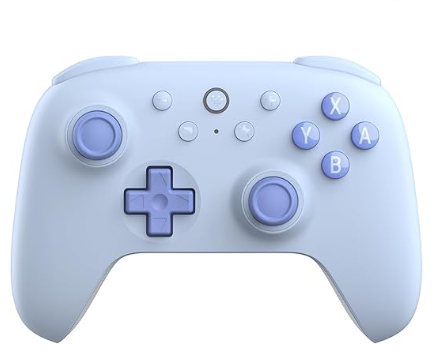
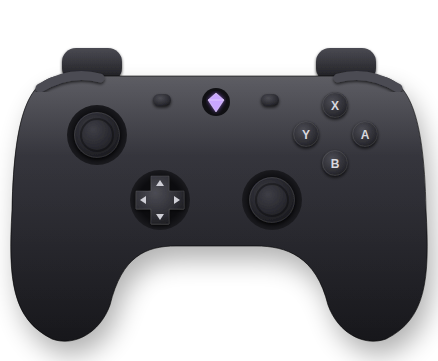
Controls screen: Riftgate's own controller drawings replace the product photos
Claude-Session: https://claude.ai/code/session_01AJu1MLLCcy1A8b8mvqWLVx

diff --git a/src/app/gamepad.js b/src/app/gamepad.js
@@ -478,8 +478,9 @@ function diagram(kind) {
 }
 
 
-// ---- The controller layout: the real controller, every button labelled ---------------------
-// Positions are pixels on the photo (assets/controllers/*.png). Each label
+// ---- The controller layout: the controller drawn, every button labelled -------------------
+// Positions are pixels on the renders (assets/controllers/*.png, all drawn for
+// Riftgate by assets/controllers/src; no real product is shown). Each label
 // sits in a column beside the controller, joined to its button by a line.
 const PHOTOS = {
     xbox: { src: "assets/controllers/xbox.png", w: 428, h: 385,

diff --git a/assets/controllers/src/gamepad.py b/assets/controllers/src/gamepad.py
@@ -1,0 +1,92 @@
+# Riftgate's own gamepad renders (no real product is shown): one generic
+# controller, drawn so each button sits exactly where the controls screen
+# expects it (PHOTOS[...].at in src/app/gamepad.js). Product-shot style,
+# matching remote.py: straight down, soft studio light, shadow on white.
+import sys
+LAYOUTS = {
+    "xbox": dict(W=428, H=385, at={"LT": [118, 30], "LB": [92, 50], "VIEW": [183, 107], "LS": [105, 105], "DPAD": [160, 175], "RT": [312, 30], "RB": [338, 50], "MENU": [245, 107], "Y": [325, 78], "X": [293, 107], "B": [350, 107], "A": [322, 134], "RS": [270, 170]},
+                 face={"A": ("A", "#3ab14a"), "B": ("B", "#e3342f"), "X": ("X", "#2f78d6"), "Y": ("Y", "#f2b705")}),
+    "playstation": dict(W=495, H=493, at={"LT": [95, 92], "LB": [100, 110], "VIEW": [132, 126], "LS": [170, 247], "DPAD": [95, 182], "RT": [398, 92], "RB": [395, 110], "MENU": [361, 126], "Y": [398, 146], "X": [370, 182], "B": [433, 182], "A": [398, 216], "RS": [325, 247]},
+                 face={"A": ("✕", "#7b9cf2"), "B": ("○", "#ef6b75"), "X": ("□", "#e58bd8"), "Y": ("△", "#3fc9a8")}),
+    "nintendo": dict(W=438, H=361, at={"LT": [92, 62], "LB": [70, 80], "VIEW": [162, 100], "LS": [97, 135], "DPAD": [160, 200], "RT": [346, 62], "RB": [368, 80], "MENU": [270, 100], "Y": [335, 105], "X": [306, 134], "B": [365, 134], "A": [335, 163], "RS": [272, 200]},
+                 face={"A": ("B", "#d8d8de"), "B": ("A", "#d8d8de"), "X": ("Y", "#d8d8de"), "Y": ("X", "#d8d8de")}),
+}
+
+def render(kind):
+    L = LAYOUTS[kind]; W, H, at = L["W"], L["H"], L["at"]
+    cx = (at["VIEW"][0] + at["MENU"][0]) / 2
+    xs = [p[0] for k, p in at.items()]
+    left = min(at["LB"][0], at["LS"][0], at["DPAD"][0]) - 52
+    right = max(at["RB"][0], at["B"][0], at["RS"][0]) + 52
+    top = min(at["LB"][1], at["RB"][1]) - 4
+    mid = max(at["LS"][1], at["RS"][1], at["DPAD"][1]) + 40
+    gb = min(H - 22, mid + 120)               # grip bottoms
+    o = []; A = o.append
+    A(f'<svg xmlns="http://www.w3.org/2000/svg" viewBox="0 0 {W} {H}" width="{W}" height="{H}">')
+    A('''<defs>
+<linearGradient id="body" x1="0" y1="0" x2="0" y2="1"><stop offset="0" stop-color="#3a3a42"/><stop offset=".45" stop-color="#2a2a31"/><stop offset="1" stop-color="#17171b"/></linearGradient>
+<linearGradient id="sheen" x1="0" y1="0" x2="0" y2="1"><stop offset="0" stop-color="#fff" stop-opacity=".18"/><stop offset=".3" stop-color="#fff" stop-opacity=".03"/><stop offset="1" stop-color="#fff" stop-opacity="0"/></linearGradient>
+<linearGradient id="trig" x1="0" y1="0" x2="0" y2="1"><stop offset="0" stop-color="#4a4a52"/><stop offset="1" stop-color="#1c1c20"/></linearGradient>
+<radialGradient id="btn" cx=".4" cy=".35" r=".75"><stop offset="0" stop-color="#4c4c54"/><stop offset=".7" stop-color="#2b2b31"/><stop offset="1" stop-color="#18181b"/></radialGradient>
+<radialGradient id="cap" cx=".42" cy=".38" r=".7"><stop offset="0" stop-color="#3e3e46"/><stop offset=".8" stop-color="#1f1f24"/><stop offset="1" stop-color="#121215"/></radialGradient>
+<radialGradient id="well" cx=".5" cy=".5" r=".5"><stop offset=".7" stop-color="#0c0c0f"/><stop offset="1" stop-color="#1a1a1e"/></radialGradient>
+<filter id="shadow" x="-50%" y="-50%" width="200%" height="200%"><feGaussianBlur stdDeviation="13"/></filter>
+<filter id="press" x="-30%" y="-30%" width="160%" height="160%"><feDropShadow dx="0" dy="1.6" stdDeviation="1.4" flood-color="#000" flood-opacity=".7"/></filter>
+<filter id="glow"><feGaussianBlur stdDeviation="2"/></filter>
+</defs>''')
+    A(f'<rect width="{W}" height="{H}" fill="#fff"/>')
+    # triggers peek out above the shoulders
+    for k in ("LT", "RT"):
+        x, y = at[k]
+        A(f'<rect x="{x-30}" y="{y-14}" width="60" height="34" rx="14" fill="url(#trig)" filter="url(#press)"/>')
+    # body: shoulders across the top, a grip on each side
+    gl, gr = left + 8, right - 8
+    d = (f"M{left+46},{top} L{right-46},{top} C{right-14},{top} {right+4},{top+30} {right+6},{mid-30} "
+         f"C{right+10},{mid+40} {right+6},{gb-20} {gr-26},{gb} C{gr-48},{gb+8} {gr-74},{gb-6} {gr-84},{gb-34} "
+         f"C{gr-96},{mid+16} {cx+70},{mid+6} {cx+40},{mid+6} L{cx-40},{mid+6} C{cx-70},{mid+6} {gl+96},{mid+16} {gl+84},{gb-34} "
+         f"C{gl+74},{gb-6} {gl+48},{gb+8} {gl+26},{gb} C{left-6},{gb-20} {left-10},{mid+40} {left-6},{mid-30} "
+         f"C{left-4},{top+30} {left+14},{top} {left+46},{top} Z")
+    A(f'<path d="{d}" fill="#000" opacity=".3" filter="url(#shadow)" transform="translate(6,14)"/>')
+    A(f'<path d="{d}" fill="url(#body)"/>')
+    A(f'<path d="{d}" fill="url(#sheen)"/>')
+    A(f'<path d="{d}" fill="none" stroke="#000" stroke-opacity=".6"/>')
+    # bumpers along the shoulder edge
+    for k, s in (("LB", 1), ("RB", -1)):
+        x, y = at[k]
+        A(f'<path d="M{x-30*s},{y+8} Q{x},{y-10} {x+30*s},{y-2}" fill="none" stroke="#4b4b53" stroke-width="9" stroke-linecap="round" filter="url(#press)"/>')
+    def btn(x, y, r, fill="url(#btn)"):
+        A(f'<circle cx="{x}" cy="{y}" r="{r}" fill="{fill}" filter="url(#press)"/>')
+        A(f'<circle cx="{x}" cy="{y}" r="{r-.6}" fill="none" stroke="#fff" stroke-opacity=".1"/>')
+    def txt(x, y, s, size, fill="#e6e6ea", w=700):
+        A(f'<text x="{x}" y="{y}" font-family="Segoe UI Symbol, Segoe UI, Helvetica, Arial, sans-serif" font-size="{size}" font-weight="{w}" fill="{fill}" text-anchor="middle" dominant-baseline="central">{s}</text>')
+    # sticks
+    for k in ("LS", "RS"):
+        x, y = at[k]
+        A(f'<circle cx="{x}" cy="{y}" r="30" fill="url(#well)"/>')
+        btn(x, y, 23, "url(#cap)")
+        A(f'<circle cx="{x}" cy="{y}" r="16" fill="none" stroke="#000" stroke-opacity=".35" stroke-width="2"/>')
+    # d-pad
+    x, y = at["DPAD"]
+    A(f'<circle cx="{x}" cy="{y}" r="30" fill="url(#well)"/>')
+    A(f'<path d="M{x-9},{y-24} h18 v15 h15 v18 h-15 v15 h-18 v-15 h-15 v-18 h15 z" fill="url(#btn)" filter="url(#press)" stroke="#fff" stroke-opacity=".08"/>')
+    for ang in (0, 90, 180, 270):
+        A(f'<path d="M0 -4 L4 2 L-4 2 Z" fill="#cfcfd6" transform="translate({x},{y}) rotate({ang}) translate(0,-16)"/>')
+    # face buttons
+    for k in ("Y", "X", "B", "A"):
+        x, y = at[k]; label, colour = L["face"][k]
+        btn(x, y, 13)
+        txt(x, y + .5, label, 12 if len(label) == 1 and label.isalpha() else 13, fill=colour)
+    # view / menu
+    for k in ("VIEW", "MENU"):
+        x, y = at[k]
+        A(f'<rect x="{x-9}" y="{y-6}" width="18" height="12" rx="6" fill="url(#btn)" filter="url(#press)"/>')
+    # Riftgate's gem as the home button
+    gy = max(top + 26, min(at["VIEW"][1], at["MENU"][1]) - 30)
+    A(f'<circle cx="{cx}" cy="{gy}" r="14" fill="#101013"/>')
+    A(f'<path d="M{cx},{gy-9} L{cx+8},{gy-2} L{cx},{gy+10} L{cx-8},{gy-2} Z" fill="#a66bff" filter="url(#glow)" opacity=".8"/>')
+    A(f'<path d="M{cx},{gy-9} L{cx+8},{gy-2} L{cx},{gy+10} L{cx-8},{gy-2} Z M{cx-8},{gy-2} H{cx+8}" fill="#c9a6ff" stroke="#efe4ff" stroke-width=".8" stroke-opacity=".7"/>')
+    A('</svg>')
+    return "\n".join(o)
+
+for k in LAYOUTS:
+    open(f"{k}.svg", "w").write(render(k))
